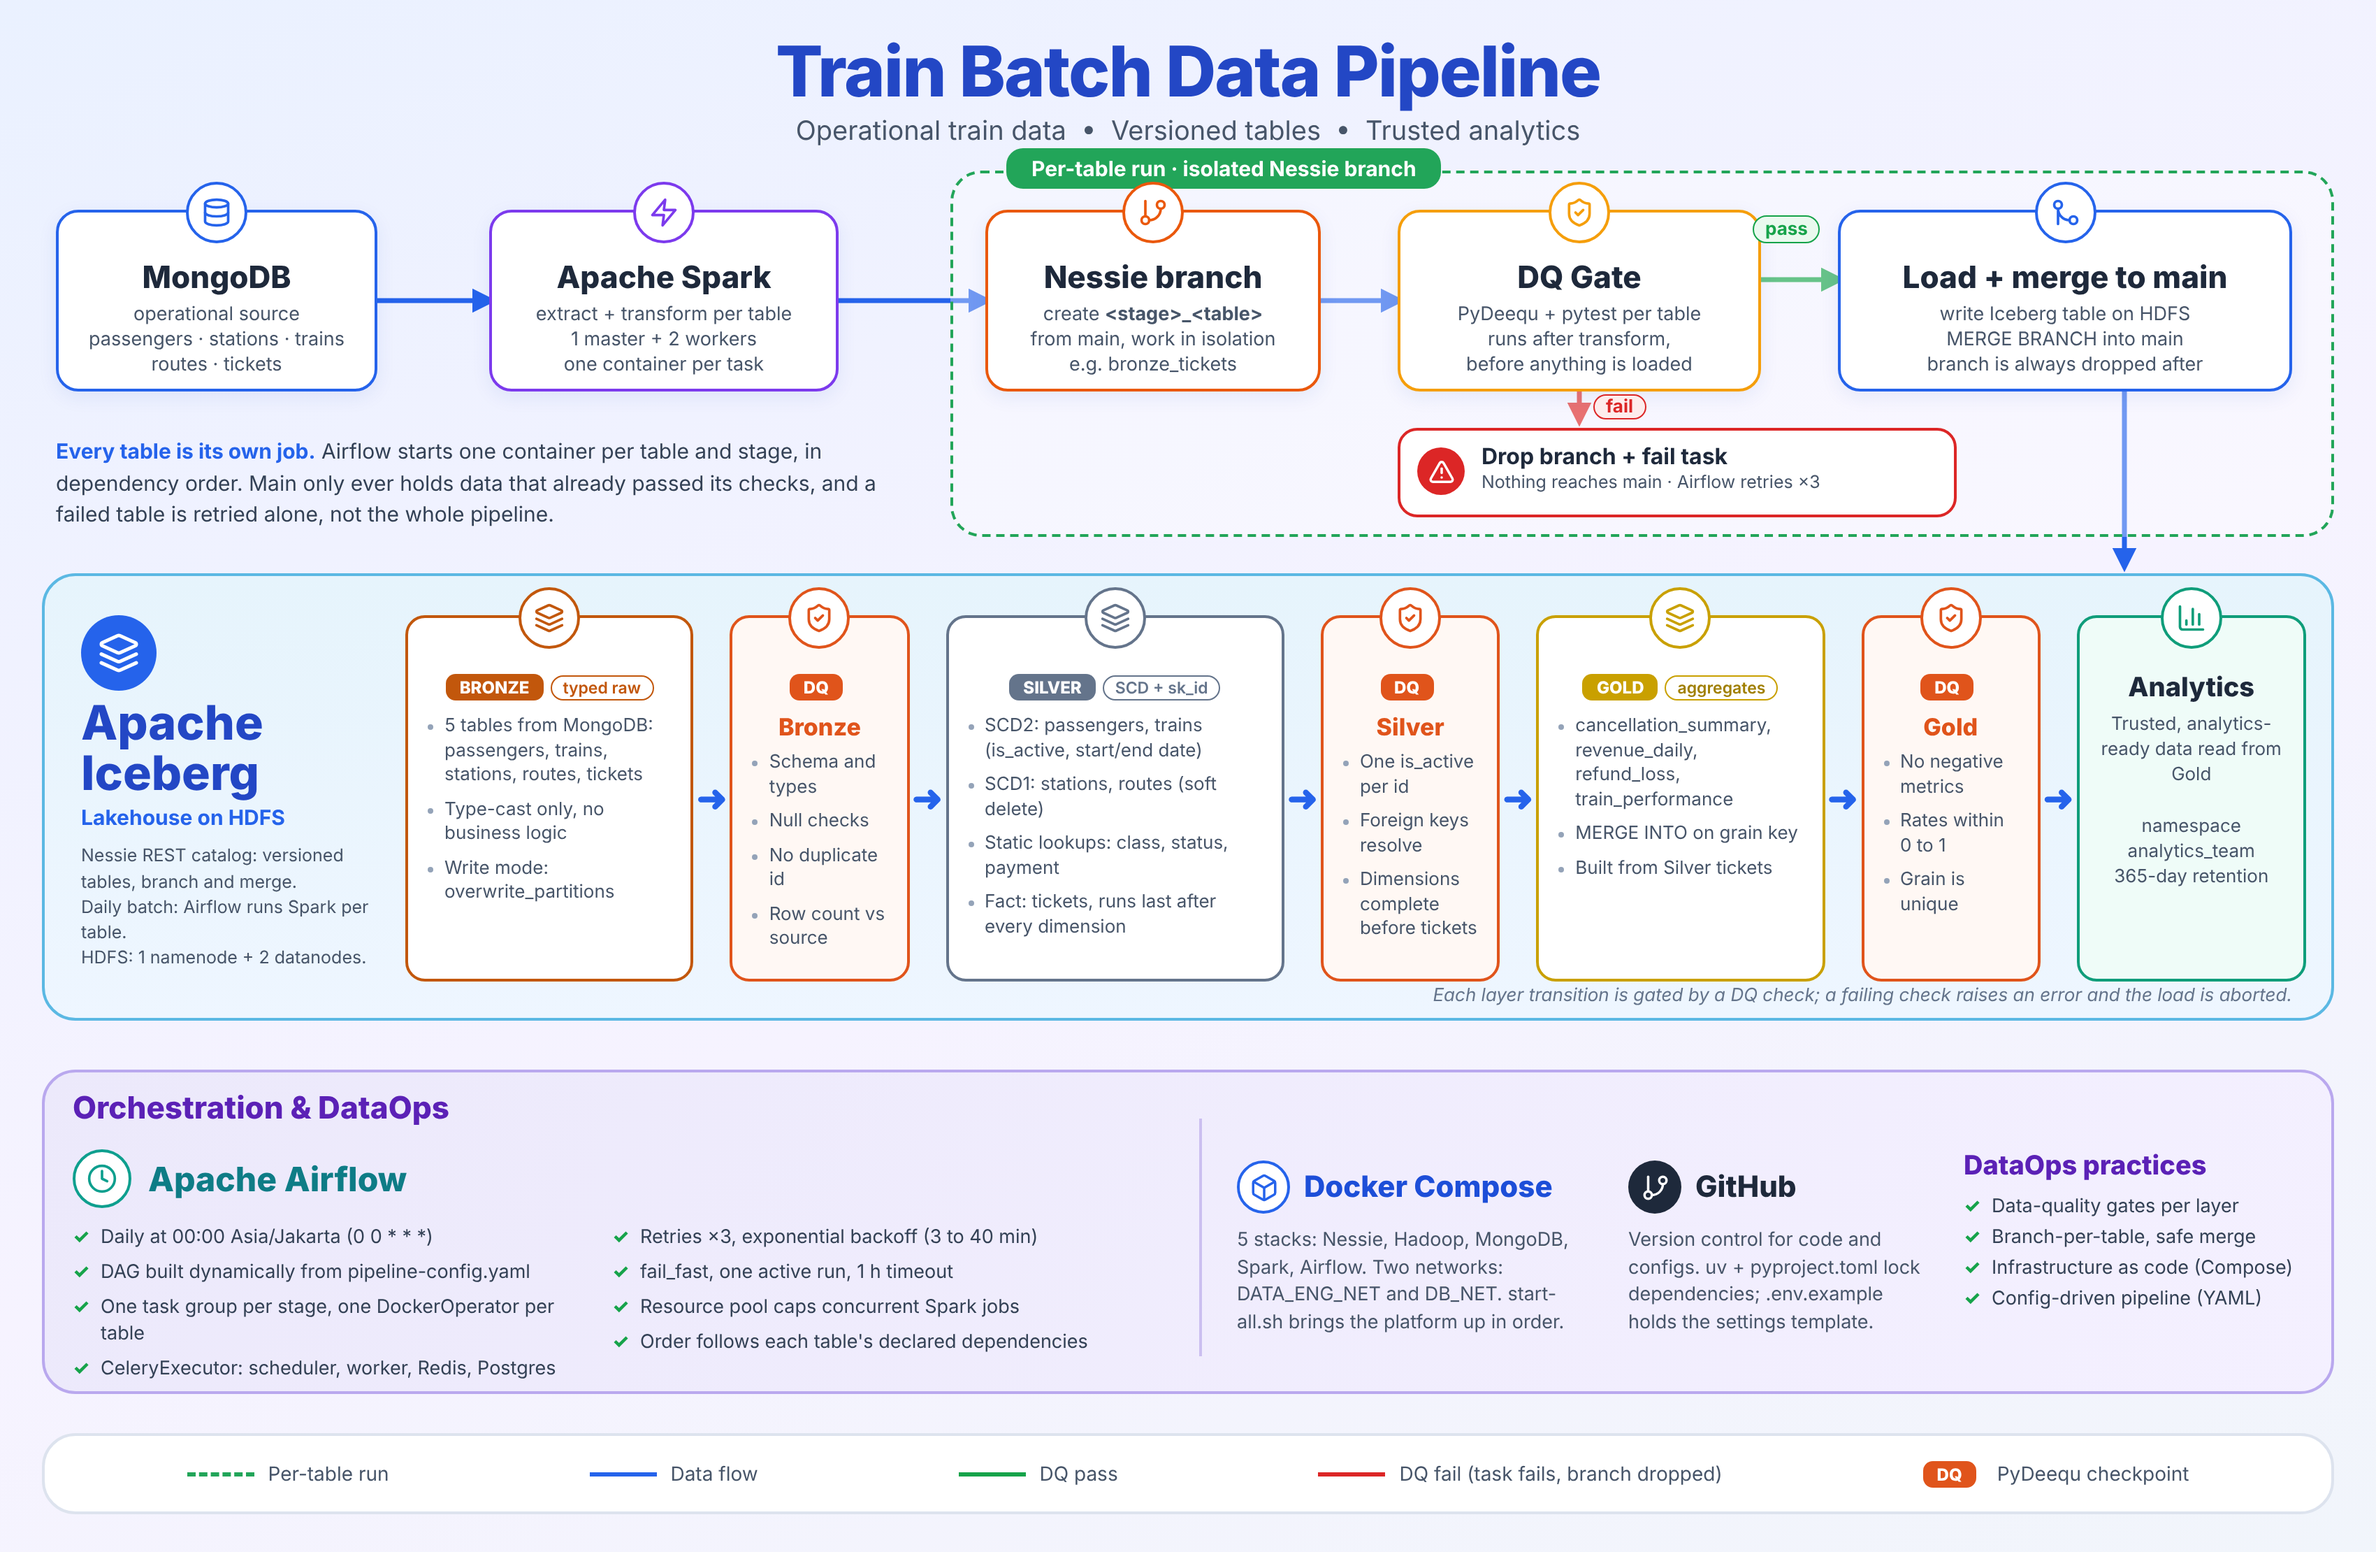
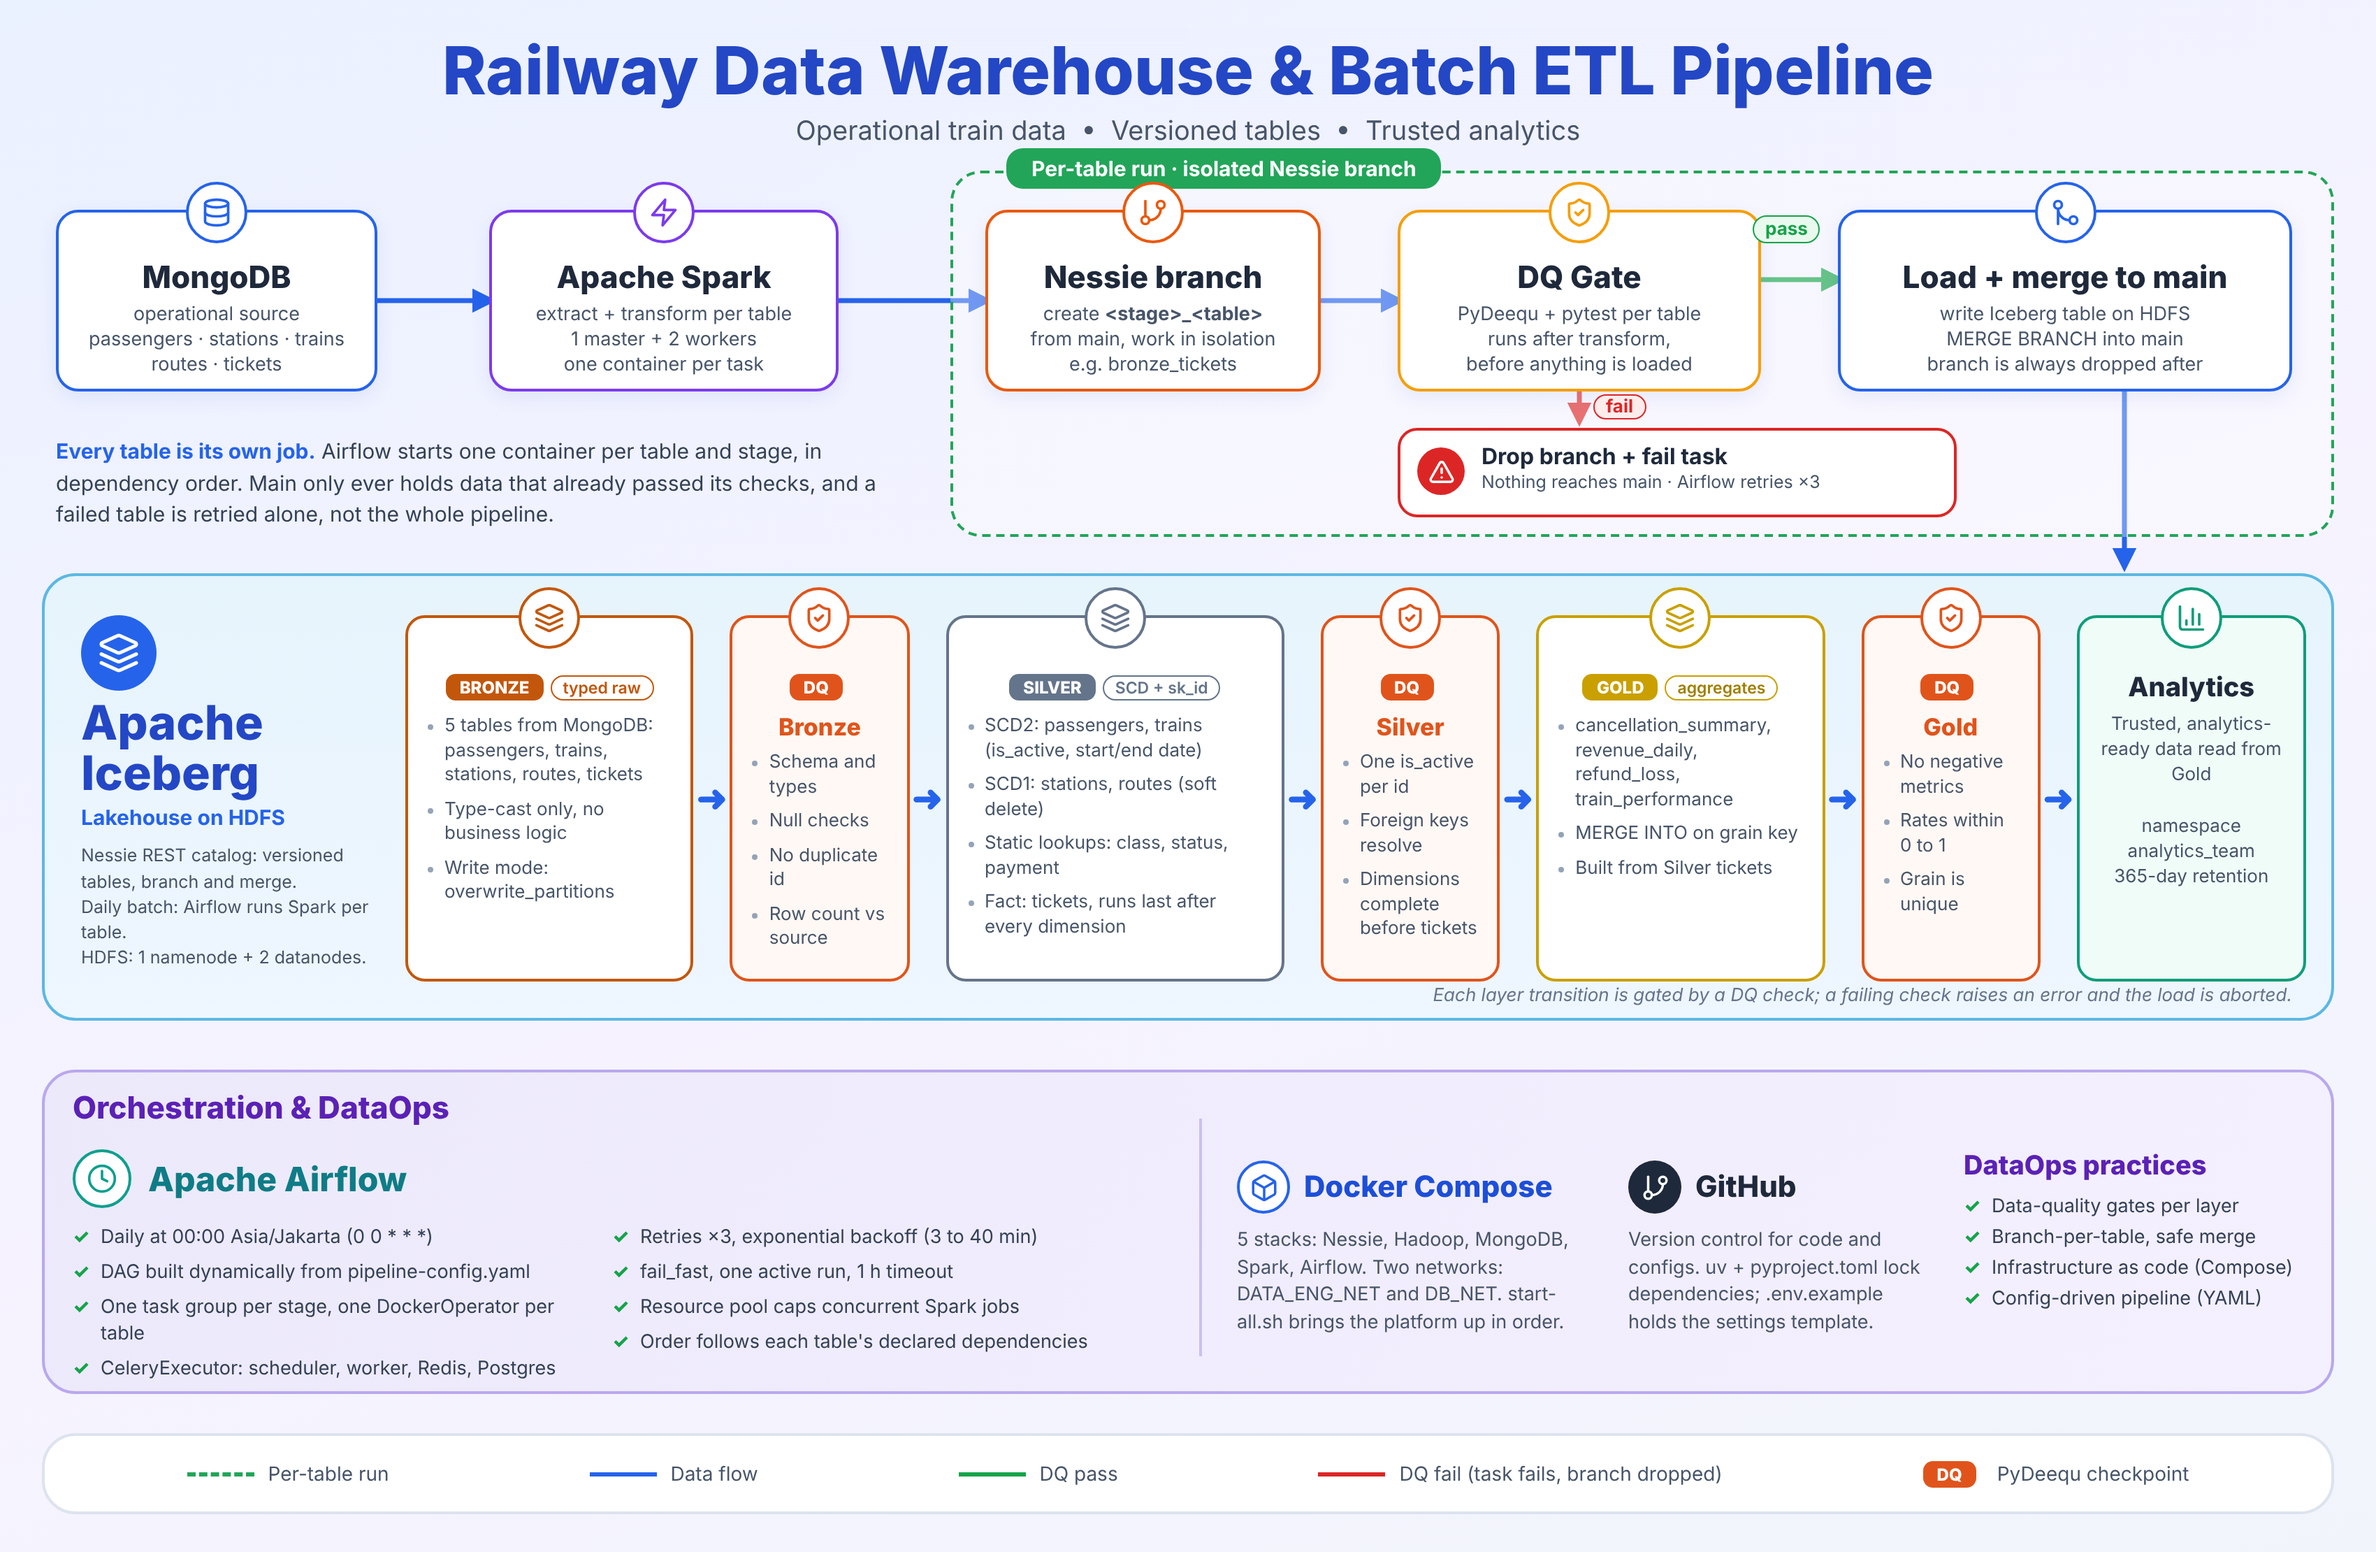
update readme & pipeline.png

Changed region(s): [[0.1871, 0.0311, 0.8106, 0.0622]]

diff --git a/README.md b/README.md
@@ -1,6 +1,6 @@
-# Train Batch Pipeline
+# Railway Data Warehouse & Batch ETL Pipeline
 
-Batch data pipeline for processing train operational data (passengers, stations, trains, routes, and tickets) from operational sources into a data warehouse, using a **Medallion Architecture** (Bronze → Silver → Gold).
+Designed and developed an end-to-end batch data pipeline to ingest and process railway operational data (passengers, stations, trains, routes, and tickets) into a data warehouse using Medallion Architecture (Bronze, Silver, and Gold). Implemented data orchestration with Apache Airflow, distributed processing with Apache Spark, and data storage using Apache Iceberg and Nessie. Integrated data quality checks using PyDeequ to ensure data accuracy and consistency.
 
 ## Table of Contents
 
